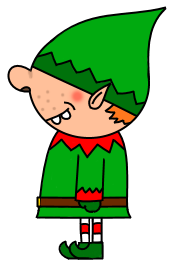
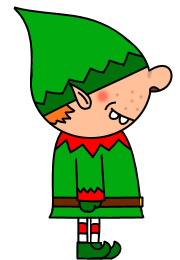
Elf position glitch fixes

diff --git a/src/models/elf.ts b/src/models/elf.ts
@@ -9,13 +9,16 @@ const NO_OF_FRONT_WALK_FRAMES = 8;
 const TIME_BETWEEN_STEPS: number = 200;
 const TIME_TO_BE_ISOLATED: number = 10000;
 const INFECTION_LIFETIME: number = 15000;
+var noOfElvesSpawned: number = 0;
 
 export class Elf {
+    id: number;
     alive: boolean = true;
     isolated: boolean = false;
     vacinated: boolean = false;
     ill: boolean = false;
     contactedIllElf: boolean = false;
+    _keepStill: boolean = false;
 
     isNPC: boolean = false;
     position: Vector2d;
@@ -53,13 +56,15 @@ export class Elf {
 
     lastShotMade: number = 0;
 
-    constructor(gameComponent: GameCanvasComponent, npc: boolean = false, position: Vector2d = new Vector2d(), isInfected=false){
+    constructor(gameComponent: GameCanvasComponent, npc: boolean = false, position: Vector2d = new Vector2d(), isInfected=false, keepStill=false){
+        this.id = noOfElvesSpawned++;
         let assetManager = gameComponent.assetManager;
         this.gameComponent = gameComponent;
         this.position = position;
         this.isNPC = npc;
         this.icedImage = assetManager.getImage(ImageRef.NPC_ICED);
         this.ill = isInfected;
+        this._keepStill = keepStill;
         if (isInfected){
             this.timeInfected = new Date().getTime();            
         }
@@ -72,6 +77,7 @@ export class Elf {
             this.backWalkimage = assetManager.getImage(ImageRef.MAIN_BACK_WALK_CYCLE);
             this.walkDir = this.gameComponent.walkDir;
             this.position = this.gameComponent.pos;
+            this.dirInputs = this.gameComponent.inputDirection;
         } else {
             this.idleFrontImage = assetManager.getImage(ImageRef.NPC_IDLE_FRONT);
             this.idleBackImage = assetManager.getImage(ImageRef.NPC_IDLE_BACK);
@@ -92,7 +98,7 @@ export class Elf {
     move(){
         let thisTime = new Date().getTime();
         if (this.isNPC) {
-            if (this.alive && !this.isolated){
+            if (this.alive && !this.isolated && !this._keepStill){
                 if (thisTime - this.lastChangeOfDirection > 500){
                     switch(Math.ceil(Math.random()*5)){//Change direction
                         case 1:
@@ -152,7 +158,7 @@ export class Elf {
         }
         if (footprintRequired){
             let pos = !this.isNPC ? this.position.getInverse() : this.position;
-            this.footprints.push(new Footprint(this, new Vector2d(pos.x + (this.stepOffset ? 20 : -20), pos.y + 70)));
+            this.footprints.push(new Footprint(this, new Vector2d(pos.x + (this.stepOffset ? 20 : -20), pos.y - 70)));
             this.stepOffset = !this.stepOffset;
         }
     }
@@ -207,19 +213,15 @@ export class Elf {
     }
 
     render(){
-        let walkDir = this.walkDir.getInverse();//this.isNPC ? this.walkDir.getInverse() : this.gameComponent.walkDir;
-        let lookDir = this.lookDir.getInverse();//this.isNPC ? this.lookDir.getInverse() : this.lookDir;
-        let lookDirX = lookDir.x;
-        let sprinting = this.isNPC ? this.dirInputs.sprint : this.gameComponent.inputDirection.sprint;
+        let lookDirX = this.lookDir.x;
+        let sprinting = this.dirInputs.sprint;
         let facingDirection = Math.sign(lookDirX);
         facingDirection = facingDirection == 0 ? 1 : facingDirection;
-        this.gameComponent.context.setTransform(1,0,0,1,0,0);
-        this.gameComponent.context.translate(Math.floor(this.gameComponent.myCanvas.nativeElement.width / 2), Math.floor(this.gameComponent.myCanvas.nativeElement.height / 2));
+        
         for (let fIndex = 0; fIndex < this.footprints.length; fIndex++) {
             let footprint = this.footprints[fIndex];
             footprint.draw()
         }
-        this.gameComponent.context.scale(facingDirection, 1);
         
         let destX = 0;
         let destY = 0;
@@ -230,7 +232,7 @@ export class Elf {
         let destWidth = this.idleFrontImage.width/2*facingDirection;
         let destHeight = this.idleFrontImage.height/2;
 
-        if (walkDir.isZero()){
+        if (this.walkDir.isZero()){
             //Idle;
             if (this.isolated){
                 this.currentImage = this.icedImage;
@@ -244,9 +246,9 @@ export class Elf {
                 srcHeight = this.deadImage.height; 
                 destWidth = this.deadImage.width/2;
                 destHeight = this.deadImage.height/2;
-            } else if (this.lookDir.isZero() || this.lookDir.y == -1){
+            } else if (this.lookDir.isZero() || this.lookDir.y == 1) {
                 this.currentImage = this.idleFrontImage;
-            }else if (this.lookDir.y == 1){
+            }else if (this.lookDir.y == -1){
                 this.currentImage = this.idleBackImage;
             }else{
                 this.currentImage = this.idleSideImage;
@@ -258,14 +260,14 @@ export class Elf {
             //Work out which directions animation to use
             let headingSideways = false;
             let directionChanged: boolean = false;
-            if (walkDir.x != 0){//Left/Right animation
+            if (this.walkDir.x != 0){//Left/Right animation
                 headingSideways = true;
                 directionChanged = this.currentImage != this.sideWalkImage;
                 this.currentImage = this.sideWalkImage;
-            }else if (walkDir.y < 0){
-                this.currentImage = this.frontWalkImage;
+            }else if (this.walkDir.y < 0){
+                this.currentImage = this.backWalkimage;
             }else{
-                this.currentImage = this.backWalkimage
+                this.currentImage = this.frontWalkImage
             }
             this.holdFrame = sprinting ? false : !this.holdFrame;
             this.currentFrame =  directionChanged ? 0 : this.currentFrame;
@@ -274,15 +276,16 @@ export class Elf {
             this.currentFrame = (this.currentFrame+(this.holdFrame?0:1))%noOfWalkingFrames;
         }
 
-        if (!this.isNPC){//Main character
-            destX = -(this.idleFrontImage.width/4)*facingDirection;
-            destY = -this.idleFrontImage.height/4;
-        }else{
-            destX = (srcWidth/4+this.position.x)*facingDirection-this.gameComponent.pos.x;
-            destY = srcHeight/4+this.position.y-this.gameComponent.pos.y;
+        if (this.isNPC) {
+            destX = (this.position.x-this.gameComponent.pos.x)*facingDirection;
+            destY = this.position.y-this.gameComponent.pos.y;
         }
 
         //console.log(srcImage, srcX, srcY, this.frameWidth, this.frameHeight, destX, destY, destHeight, destHeight)
+        
+        this.gameComponent.context.setTransform(1,0,0,1,0,0);
+        this.gameComponent.context.translate(Math.floor(this.gameComponent.myCanvas.nativeElement.width / 2-srcWidth/4), Math.floor(this.gameComponent.myCanvas.nativeElement.height / 2-srcHeight/4));
+        this.gameComponent.context.scale(facingDirection, 1);
         this.gameComponent.context.drawImage(
             this.currentImage,
             srcX,
@@ -310,7 +313,9 @@ export class Elf {
                 destY - 50
             )
         }
-        
-        this.gameComponent.context.scale(1,1);
+        this.gameComponent.context.scale(facingDirection, 1);
+        this.gameComponent.context.fillStyle = `rgba(0, 0, 0)`;
+        this.gameComponent.context.fillText(`${this.id} - ${this.position.toString()}`, destX, destY);
+        this.gameComponent.context.fillText(`${destX} ${destY}`, destX, destY+20);
     }
 }

diff --git a/src/app/game-canvas/game-canvas.component.ts b/src/app/game-canvas/game-canvas.component.ts
@@ -4,13 +4,13 @@ import { Elf } from 'src/models/elf';
 import { InputDirections } from 'src/models/inputDirection';
 import { Vector2d } from 'src/models/vector2d';
 import * as nipplejs from 'nipplejs';
-import { AssetManager, GameImage, ImageRef } from 'src/models/assetManager';
+import { AssetManager, ImageRef } from 'src/models/assetManager';
 import { Weapon, WeaponType } from 'src/models/weapon';
 import { RefillStation } from 'src/models/refillStation';
 import { ProjectileType } from 'src/models/projectile';
 import { GridManager } from 'src/models/GridManager';
 
-const ELF_SPAWN_INTERVAL: number = 25000;
+const ELF_SPAWN_INTERVAL: number = 2500;
 const REFILL_SPAWN_INTERVAL: number = 15000;
 const SPREADING_INTERVAL: number = 1000
 
@@ -125,7 +125,7 @@ export class GameCanvasComponent implements AfterViewInit {
       let randomIndex = Math.ceil(Math.random()*aliveOffscreen);
       switch(true){
         case(randomIndex <= healthyOffscreen):{
-          elf = new Elf(this, true, spawnOffset, false);
+          elf = new Elf(this, true, spawnOffset, false, true);
           break;
         }
         case(randomIndex-healthyOffscreen <= illOffscreen):{

diff --git a/src/models/refillStation.ts b/src/models/refillStation.ts
@@ -36,8 +36,8 @@ export class RefillStation{
         this.gameCanvas.context.translate(Math.floor(this.gameCanvas.myCanvas.nativeElement.width / 2), Math.floor(this.gameCanvas.myCanvas.nativeElement.height / 2));
         this.gameCanvas.context.drawImage(
             this.pickedUp ? this.stationEmptyImage : this.stationImage,
-            this.gameCanvas.pos.x-this.size.x/2+this.position.x,
-            this.gameCanvas.pos.y-this.size.y/2+this.position.y);
+            -this.gameCanvas.pos.x-this.size.x/2+this.position.x,
+            -this.gameCanvas.pos.y-this.size.y/2+this.position.y);
         this.gameCanvas.context.fill();        
     }
 

diff --git a/src/models/inputDirection.ts b/src/models/inputDirection.ts
@@ -17,7 +17,7 @@ export class InputDirections {
     getWalkDirFromInput(vector: Vector2d, isNPC: boolean = false): void{
         let accelerationSpeed = this.sprint ? 2 : 1;
         let maxSpeed = this.sprint ? MAX_SPRINT_SPEED : MAX_SPEED;
-        maxSpeed = isNPC ? maxSpeed - 1 : maxSpeed; 
+        maxSpeed = isNPC ? maxSpeed - 2 : maxSpeed; 
         let xDir = (this.left ? -accelerationSpeed : 0) + (this.right ? accelerationSpeed : 0);
         let yDir = (this.up ? -accelerationSpeed : 0) + (this.down ? accelerationSpeed : 0);
         if (vector.x > 0 && xDir == 0) xDir = -1;

diff --git a/src/models/projectile.ts b/src/models/projectile.ts
@@ -20,7 +20,7 @@ export class Projectile {
         this.createdTime = new Date().getTime();
         this.type = type;
         this.position = parent.gameCanvas.pos.getInverse();
-        this.direction = parent.gameCanvas.mainElf.lookDir.getInverse().multiplyThis(15);
+        this.direction = parent.gameCanvas.mainElf.lookDir.multiplyThis(15);
         console.log("LookDir", this.direction);
         switch(type){
             case(ProjectileType.SYRINGE):
